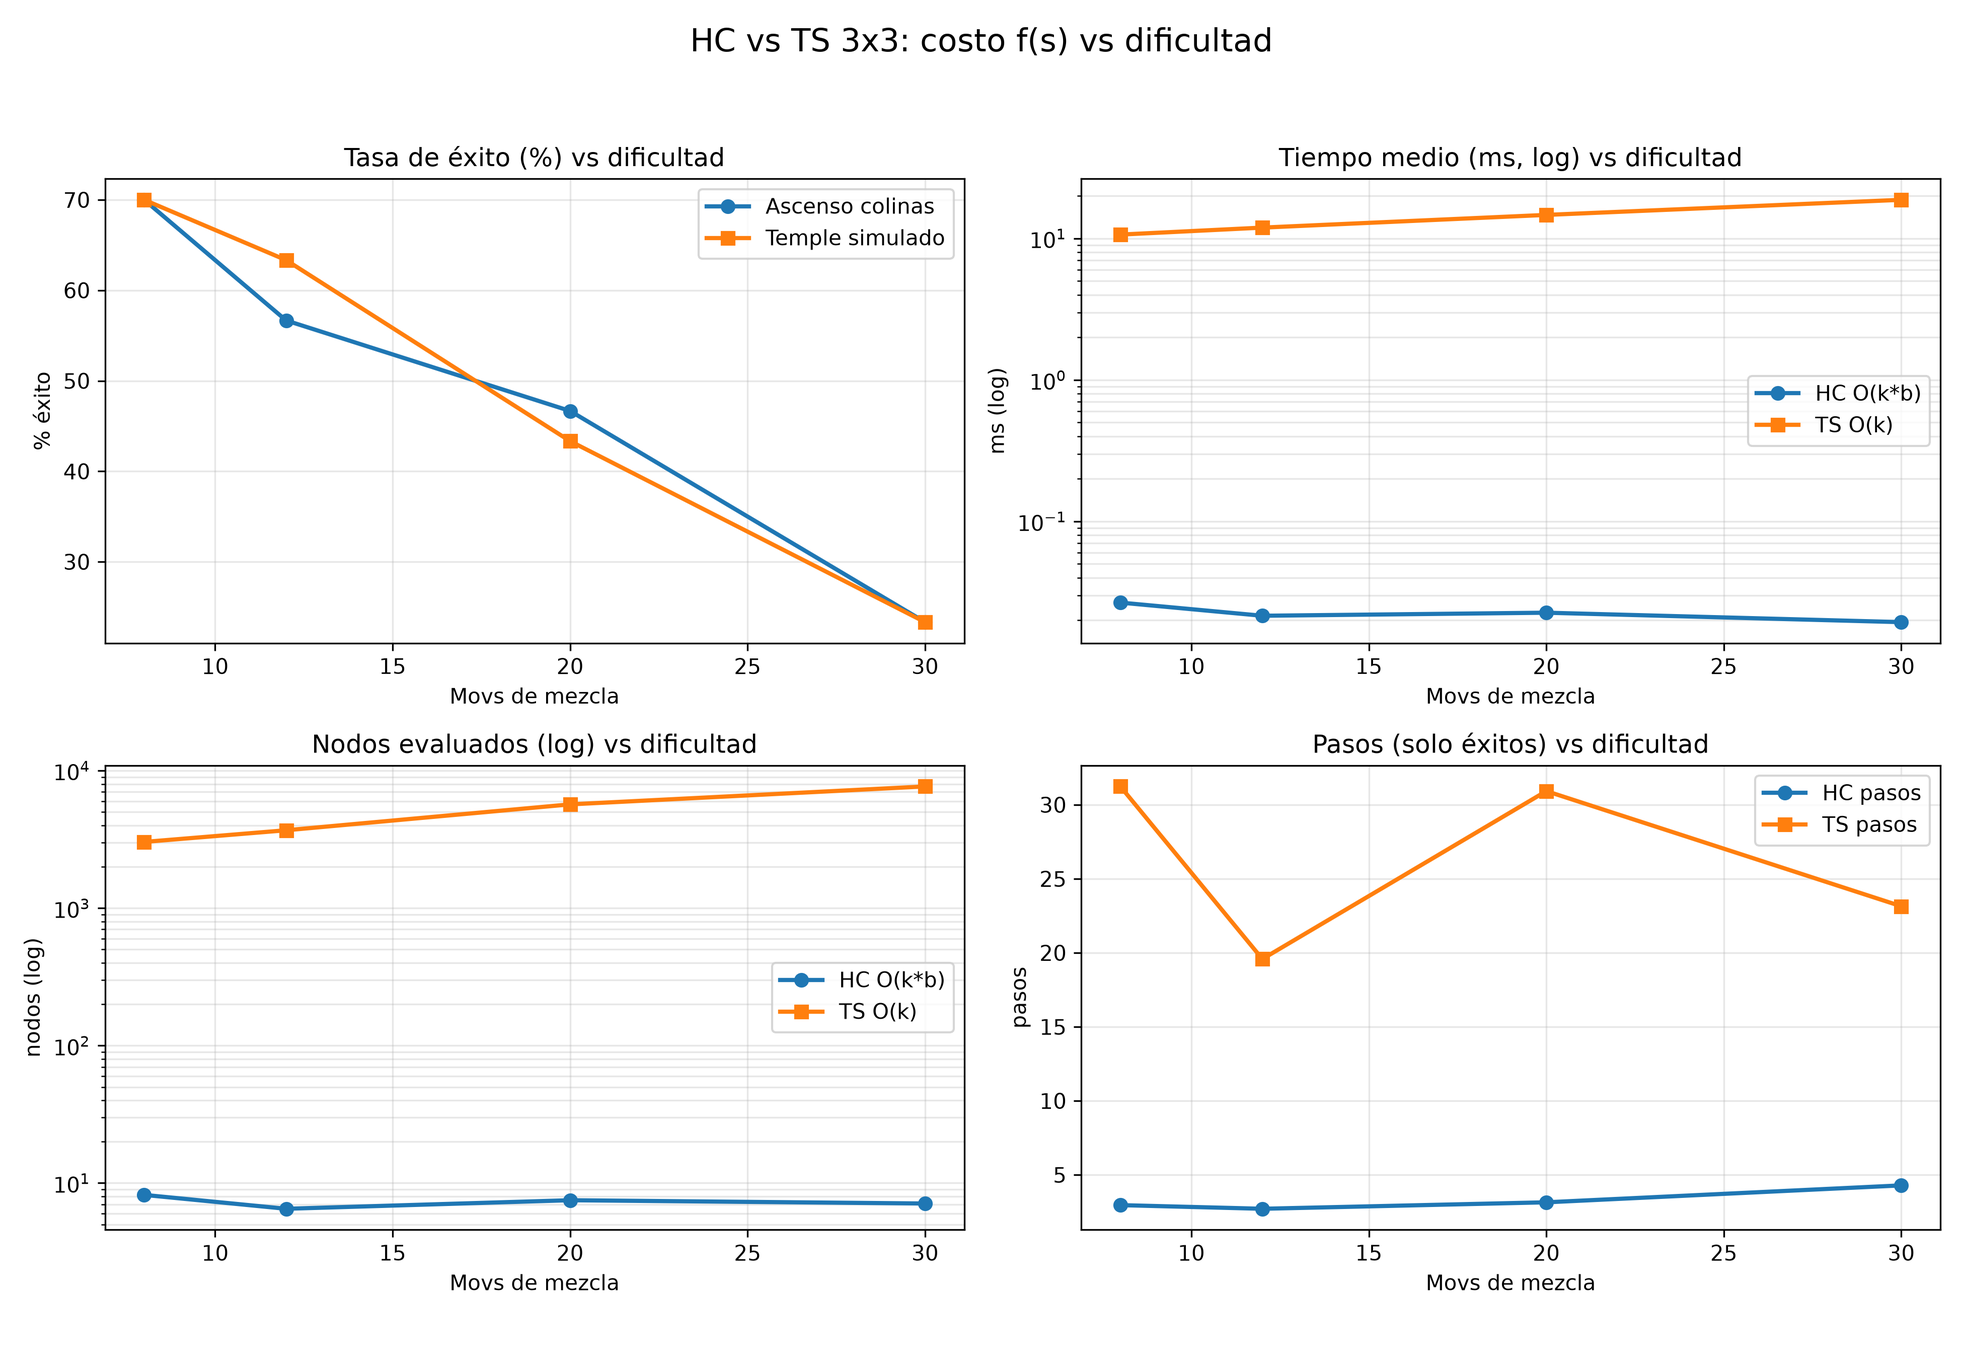
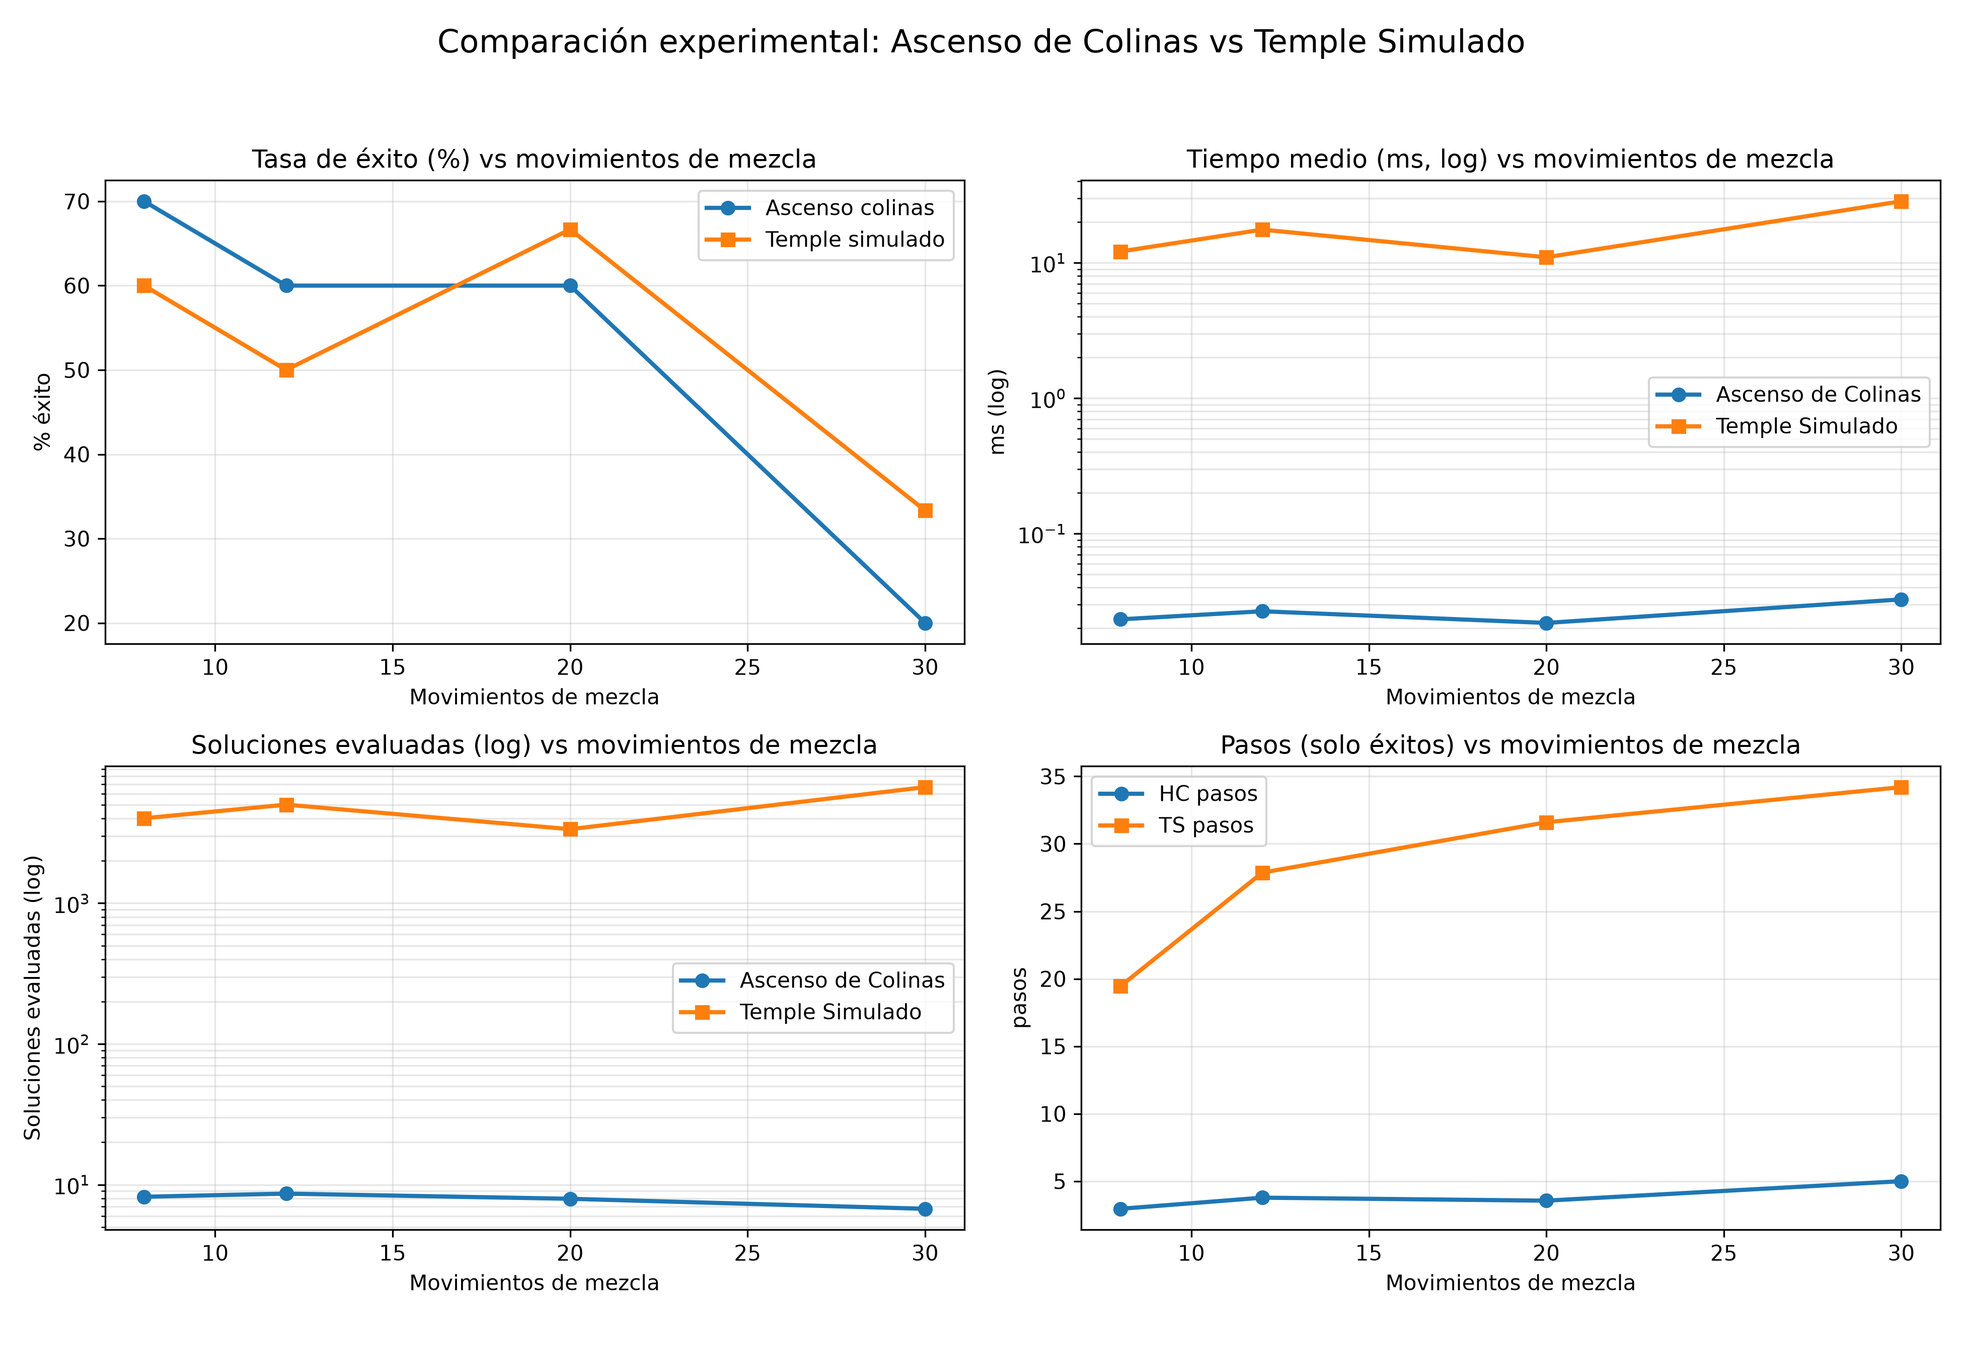
Agrega puzzle colinas temple y README

diff --git a/puzzle_colinas_temple.py b/puzzle_colinas_temple.py
@@ -1,6 +1,7 @@
 import random
 import time
 import math
+from pathlib import Path
 import matplotlib.pyplot as plt
 import numpy as np
 
@@ -56,19 +57,19 @@ def ascenso_colinas(estado_inicial, max_iter=5000):
     Evaluar vecinos, escoger el mejor y detenerse si no hay mejora.
     La meseta es una limitación: no se resuelve con laterales aquí.
     """
-    inicio = time.time()
+    inicio = time.perf_counter()
     actual = estado_inicial
     costo_actual = costo(actual)
     camino = [actual]
     historial_costo = [costo_actual]
-    nodos_evaluados = 0
+    soluciones_evaluadas = 0
     motivo = "max_iter"
 
     if actual == META:
         return {
             "exito": True,
-            "tiempo": time.time() - inicio,
-            "nodos": 0,
+            "tiempo": time.perf_counter() - inicio,
+            "evaluaciones": 0,
             "pasos": 0,
             "camino": camino,
             "historial_costo": historial_costo,
@@ -81,13 +82,16 @@ def ascenso_colinas(estado_inicial, max_iter=5000):
             motivo = "meta_alcanzada"
             break
         vecinos = obtener_vecinos(actual)
-        nodos_evaluados += len(vecinos)
-        mejor = min(vecinos, key=costo)
-        if costo(mejor) >= costo_actual:
+        soluciones_evaluadas += len(vecinos)
+        costo_mejor, mejor = min(
+            ((costo(vecino), vecino) for vecino in vecinos),
+            key=lambda candidato: candidato[0],
+        )
+        if costo_mejor >= costo_actual:
             motivo = "minimo_local_o_meseta"
             break
         actual = mejor
-        costo_actual = costo(actual)
+        costo_actual = costo_mejor
         camino.append(actual)
         historial_costo.append(costo_actual)
 
@@ -96,8 +100,8 @@ def ascenso_colinas(estado_inicial, max_iter=5000):
         motivo = "meta_alcanzada"
     return {
         "exito": exito,
-        "tiempo": time.time() - inicio,
-        "nodos": nodos_evaluados,
+        "tiempo": time.perf_counter() - inicio,
+        "evaluaciones": soluciones_evaluadas,
         "pasos": (len(camino) - 1) if exito else None,
         "camino": camino,
         "historial_costo": historial_costo,
@@ -110,13 +114,13 @@ def temple_simulado(estado_inicial, T_inicial=2.0, alpha=0.99, T_min=0.001,
                      max_iter=10000, semilla=None):
     """Temple simulado con función de costo f(s).
 
-    Delta E = f(s') - f(s). Si mejora se acepta.
+    Delta E = f(s') - f(s). Si mejora o empata se acepta.
     Si empeora se acepta con P = exp(-DeltaE / T).
     Enfría con T = T_inicial * alpha^k.
     """
     if semilla is not None:
         random.seed(semilla)
-    inicio = time.time()
+    inicio = time.perf_counter()
     actual = estado_inicial
     costo_actual = costo(actual)
     mejor = actual
@@ -124,13 +128,13 @@ def temple_simulado(estado_inicial, T_inicial=2.0, alpha=0.99, T_min=0.001,
     trayectoria = [actual]
     historial_costo = [costo_actual]
     historial_T = [T_inicial]
-    nodos_evaluados = 0
+    soluciones_evaluadas = 0
 
     if actual == META:
         return {
             "exito": True,
-            "tiempo": time.time() - inicio,
-            "nodos": 0,
+            "tiempo": time.perf_counter() - inicio,
+            "evaluaciones": 0,
             "pasos": 0,
             "camino": trayectoria,
             "historial_costo": historial_costo,
@@ -144,12 +148,12 @@ def temple_simulado(estado_inicial, T_inicial=2.0, alpha=0.99, T_min=0.001,
         if actual == META:
             break
         vecinos = obtener_vecinos(actual)
-        nodos_evaluados += 1
+        soluciones_evaluadas += 1
         siguiente = random.choice(vecinos)
         costo_siguiente = costo(siguiente)
         delta_E = costo_siguiente - costo_actual
         acepta = False
-        if delta_E < 0:
+        if delta_E <= 0:
             acepta = True
         else:
             prob = math.exp(-delta_E / T) if T > 0 else 0.0
@@ -170,8 +174,8 @@ def temple_simulado(estado_inicial, T_inicial=2.0, alpha=0.99, T_min=0.001,
     exito = (mejor_costo == 0)
     return {
         "exito": exito,
-        "tiempo": time.time() - inicio,
-        "nodos": nodos_evaluados,
+        "tiempo": time.perf_counter() - inicio,
+        "evaluaciones": soluciones_evaluadas,
         "pasos": (len(trayectoria) - 1) if exito else None,
         "camino": trayectoria,
         "historial_costo": historial_costo,
@@ -182,9 +186,9 @@ def temple_simulado(estado_inicial, T_inicial=2.0, alpha=0.99, T_min=0.001,
 
 
 def experimento(niveles=(8, 12, 20, 30), trials=30, semilla=123):
-    """Comparación HC vs TS barriendo dificultad.
+    """Comparación HC vs TS según movimientos de mezcla.
 
-    Complejidad empírica: éxito, tiempo, nodos y pasos vs mezcla.
+    Complejidad empírica: éxito, tiempo, evaluaciones y pasos vs mezcla.
     HC = O(k*b), TS = O(k) con un vecino por iteración.
     """
     print("=" * 70)
@@ -193,48 +197,48 @@ def experimento(niveles=(8, 12, 20, 30), trials=30, semilla=123):
     print("=" * 70)
     random.seed(semilla)
     estudio = {}
-    print(f"{'Nivel':<8}{'HC%':<8}{'HC ms':<10}{'HC nod':<10}{'HC pas':<8}| "
-          f"{'TS%':<8}{'TS ms':<10}{'TS nod':<10}{'TS pas':<8}")
+    print(f"{'Mezcla':<8}{'HC%':<8}{'HC ms':<10}{'HC eval':<10}{'HC pas':<8}| "
+          f"{'TS%':<8}{'TS ms':<10}{'TS eval':<10}{'TS pas':<8}")
     print("-" * 90)
     for sc in niveles:
         pruebas = [generar_estado_aleatorio(sc) for _ in range(trials)]
-        hc_m = {"exito": [], "tiempo": [], "nodos": [], "pasos": []}
-        ts_m = {"exito": [], "tiempo": [], "nodos": [], "pasos": []}
+        hc_m = {"exito": [], "tiempo": [], "evaluaciones": [], "pasos": []}
+        ts_m = {"exito": [], "tiempo": [], "evaluaciones": [], "pasos": []}
         for s in pruebas:
             r = ascenso_colinas(s)
             hc_m["exito"].append(1 if r["exito"] else 0)
             hc_m["tiempo"].append(r["tiempo"])
-            hc_m["nodos"].append(r["nodos"])
+            hc_m["evaluaciones"].append(r["evaluaciones"])
             hc_m["pasos"].append(r["pasos"])
             r2 = temple_simulado(s)
             ts_m["exito"].append(1 if r2["exito"] else 0)
             ts_m["tiempo"].append(r2["tiempo"])
-            ts_m["nodos"].append(r2["nodos"])
+            ts_m["evaluaciones"].append(r2["evaluaciones"])
             ts_m["pasos"].append(r2["pasos"])
         estudio[sc] = {"hc": hc_m, "ts": ts_m}
         hc_p = [x for x in hc_m["pasos"] if x is not None]
         ts_p = [x for x in ts_m["pasos"] if x is not None]
         print(f"{sc:<8}{np.mean(hc_m['exito'])*100:<8.1f}"
-              f"{np.mean(hc_m['tiempo'])*1000:<10.3f}{np.mean(hc_m['nodos']):<10.1f}"
+              f"{np.mean(hc_m['tiempo'])*1000:<10.3f}{np.mean(hc_m['evaluaciones']):<10.1f}"
               f"{(np.mean(hc_p) if hc_p else 0):<8.1f}| "
               f"{np.mean(ts_m['exito'])*100:<8.1f}"
-              f"{np.mean(ts_m['tiempo'])*1000:<10.3f}{np.mean(ts_m['nodos']):<10.1f}"
+              f"{np.mean(ts_m['tiempo'])*1000:<10.3f}{np.mean(ts_m['evaluaciones']):<10.1f}"
               f"{(np.mean(ts_p) if ts_p else 0):<8.1f}")
     print("-" * 90)
-    print("HC = O(k*b). TS = O(k) con un vecino por iteración.")
+    print("Evaluaciones de costo: HC = O(k*b); TS = O(k).")
     print("b~2.67 (2 esquina, 3 borde, 4 centro). Espacio 9!/2=181440.")
     return estudio
 
 
 def graficar_comparacion(estudio):
-    """4 gráficas costo/complejidad vs dificultad. Guarda PNG."""
+    """4 gráficas costo/complejidad vs movimientos de mezcla. Guarda PNG."""
     niveles = sorted(estudio.keys())
     hc_ok = [np.mean(estudio[n]["hc"]["exito"]) * 100 for n in niveles]
     ts_ok = [np.mean(estudio[n]["ts"]["exito"]) * 100 for n in niveles]
     hc_t = [np.mean(estudio[n]["hc"]["tiempo"]) * 1000 for n in niveles]
     ts_t = [np.mean(estudio[n]["ts"]["tiempo"]) * 1000 for n in niveles]
-    hc_n = [np.mean(estudio[n]["hc"]["nodos"]) for n in niveles]
-    ts_n = [np.mean(estudio[n]["ts"]["nodos"]) for n in niveles]
+    hc_n = [np.mean(estudio[n]["hc"]["evaluaciones"]) for n in niveles]
+    ts_n = [np.mean(estudio[n]["ts"]["evaluaciones"]) for n in niveles]
     hc_p = []
     ts_p = []
     for n in niveles:
@@ -244,45 +248,47 @@ def graficar_comparacion(estudio):
         ts_p.append(np.mean(b) if b else 0)
 
     fig, axs = plt.subplots(2, 2, figsize=(13, 9))
-    fig.suptitle('HC vs TS 3x3: costo f(s) vs dificultad', fontsize=15)
+    fig.suptitle('Comparación experimental: Ascenso de Colinas vs Temple Simulado', fontsize=15)
 
     axs[0, 0].plot(niveles, hc_ok, 'o-', label='Ascenso colinas', linewidth=2)
     axs[0, 0].plot(niveles, ts_ok, 's-', label='Temple simulado', linewidth=2)
-    axs[0, 0].set_title('Tasa de éxito (%) vs dificultad')
-    axs[0, 0].set_xlabel('Movs de mezcla')
+    axs[0, 0].set_title('Tasa de éxito (%) vs movimientos de mezcla')
+    axs[0, 0].set_xlabel('Movimientos de mezcla')
     axs[0, 0].set_ylabel('% éxito')
     axs[0, 0].legend()
     axs[0, 0].grid(True, alpha=0.3)
 
-    axs[0, 1].plot(niveles, hc_t, 'o-', label='HC O(k*b)', linewidth=2)
-    axs[0, 1].plot(niveles, ts_t, 's-', label='TS O(k)', linewidth=2)
-    axs[0, 1].set_title('Tiempo medio (ms, log) vs dificultad')
-    axs[0, 1].set_xlabel('Movs de mezcla')
+    axs[0, 1].plot(niveles, hc_t, 'o-', label='Ascenso de Colinas', linewidth=2)
+    axs[0, 1].plot(niveles, ts_t, 's-', label='Temple Simulado', linewidth=2)
+    axs[0, 1].set_title('Tiempo medio (ms, log) vs movimientos de mezcla')
+    axs[0, 1].set_xlabel('Movimientos de mezcla')
     axs[0, 1].set_ylabel('ms (log)')
     axs[0, 1].set_yscale('log')
     axs[0, 1].legend()
     axs[0, 1].grid(True, which='both', alpha=0.3)
 
-    axs[1, 0].plot(niveles, hc_n, 'o-', label='HC O(k*b)', linewidth=2)
-    axs[1, 0].plot(niveles, ts_n, 's-', label='TS O(k)', linewidth=2)
-    axs[1, 0].set_title('Nodos evaluados (log) vs dificultad')
-    axs[1, 0].set_xlabel('Movs de mezcla')
-    axs[1, 0].set_ylabel('nodos (log)')
+    axs[1, 0].plot(niveles, hc_n, 'o-', label='Ascenso de Colinas', linewidth=2)
+    axs[1, 0].plot(niveles, ts_n, 's-', label='Temple Simulado', linewidth=2)
+    axs[1, 0].set_title('Soluciones evaluadas (log) vs movimientos de mezcla')
+    axs[1, 0].set_xlabel('Movimientos de mezcla')
+    axs[1, 0].set_ylabel('Soluciones evaluadas (log)')
     axs[1, 0].set_yscale('log')
     axs[1, 0].legend()
     axs[1, 0].grid(True, which='both', alpha=0.3)
 
     axs[1, 1].plot(niveles, hc_p, 'o-', label='HC pasos', linewidth=2)
     axs[1, 1].plot(niveles, ts_p, 's-', label='TS pasos', linewidth=2)
-    axs[1, 1].set_title('Pasos (solo éxitos) vs dificultad')
-    axs[1, 1].set_xlabel('Movs de mezcla')
+    axs[1, 1].set_title('Pasos (solo éxitos) vs movimientos de mezcla')
+    axs[1, 1].set_xlabel('Movimientos de mezcla')
     axs[1, 1].set_ylabel('pasos')
     axs[1, 1].legend()
     axs[1, 1].grid(True, alpha=0.3)
 
     plt.tight_layout(rect=[0, 0.03, 1, 0.95])
-    plt.savefig('graficas_HC_TS_dificultad.png', dpi=300)
-    print("Gráfica guardada como 'graficas_HC_TS_dificultad.png'")
+    ruta_grafica = Path(__file__).resolve().parent / 'img' / 'graficas_HC_TS_dificultad.png'
+    ruta_grafica.parent.mkdir(exist_ok=True)
+    plt.savefig(ruta_grafica, dpi=300)
+    print(f"Gráfica guardada como '{ruta_grafica}'")
     plt.show()
 
 
@@ -290,7 +296,7 @@ def main():
     """Punto de entrada: experimento + gráfica."""
     estudio = experimento()
     graficar_comparacion(estudio)
-    print("Listo: ver graficas_HC_TS_dificultad.png")
+    print("Listo: ver img/graficas_HC_TS_dificultad.png")
 
 
 if __name__ == "__main__":

diff --git a/README.md b/README.md
@@ -1,6 +1,6 @@
-# Ascenso de Colinas y Temple Simulado en el 8-Puzzle (3x3)
+# Comparación experimental: Ascenso de Colinas vs Temple Simulado
 
-Estudio de búsqueda local según diapositivas: **estado, vecindad y calidad/aptitud** de la solución con función objetivo `f(s)`. Comparación **Hill Climbing (HC)** frente a **Temple Simulado (TS)**.
+Comparación de **Ascenso de Colinas (HC)** y **Temple Simulado (TS)** para el puzle 3 × 3. Se usa búsqueda local con estado, vecindad y función de costo `f(s)`.
 
 Archivo principal: `puzzle_colinas_temple.py` · Requiere `Python 3.10+`, `numpy`, `matplotlib`.
 
@@ -27,9 +27,12 @@ def costo(estado):
 **`ascenso_colinas(estado_inicial, max_iter=5000)` base:**
 
 ```python
-mejor = min(vecinos, key=costo)
-if costo(mejor) >= costo(actual):
-    return actual
+costo_mejor, mejor = min(
+    ((costo(vecino), vecino) for vecino in vecinos),
+    key=lambda candidato: candidato[0],
+)
+if costo_mejor >= costo_actual:
+    break
 ```
 
 Evalúa vecinos, escoge el mejor y se detiene si no hay mejora. La meseta se deja como limitación, sin `sideways_limit`: si todos empatan o empeoran, retorna `minimo_local_o_meseta`. Sin reinicios en la comparación principal.
@@ -38,7 +41,7 @@ Evalúa vecinos, escoge el mejor y se detiene si no hay mejora. La meseta se dej
 
 ```
 Delta E = f(s') - f(s)
-si Delta E < 0: aceptar
+si Delta E <= 0: aceptar
 si no: P = exp(-DeltaE / T), T = T_inicial * alpha^k
 ```
 
@@ -46,7 +49,7 @@ Un vecino por iteración. Nombres de costo: `costo_actual`, `costo_siguiente`, `
 
 ## 3. Experimento
 
-`experimento(niveles=(8,12,20,30), trials=30, semilla=123)` mide éxito, tiempo, nodos y pasos vs mezcla. `graficar_comparacion(estudio)` genera `graficas_HC_TS_dificultad.png`. `main()` corre ambos.
+`experimento(niveles=(8,12,20,30), trials=30, semilla=123)` mide éxito, tiempo, soluciones evaluadas y pasos según los movimientos de mezcla. Los resultados de cada algoritmo usan la clave `"evaluaciones"`. `graficar_comparacion(estudio)` genera `img/graficas_HC_TS_dificultad.png`. `main()` corre ambos.
 
 ```bash
 pip install matplotlib numpy
@@ -55,34 +58,34 @@ python puzzle_colinas_temple.py
 
 ## 4. Resultados con función costo (30 partidas por nivel)
 
-| Mezcla | HC éxito | HC tiempo | HC nodos | HC pasos* | TS éxito | TS tiempo | TS nodos | TS pasos* |
+| Movimientos de mezcla | HC éxito | HC tiempo | HC evaluaciones | HC pasos* | TS éxito | TS tiempo | TS evaluaciones | TS pasos* |
 |---|---|---|---|---|---|---|---|---|
-| 8 | 70.0% | 0.027 ms | 8.2 | 3.0 | 70.0% | 10.6 ms | 3029 | 31.2 |
-| 12 | 56.7% | 0.022 ms | 6.5 | 2.7 | 63.3% | 11.9 ms | 3683 | 19.6 |
-| 20 | 46.7% | 0.023 ms | 7.5 | 3.1 | 43.3% | 14.6 ms | 5682 | 30.9 |
-| 30 | 23.3% | 0.019 ms | 7.1 | 4.3 | 23.3% | 18.7 ms | 7673 | 23.1 |
+| 8 | 70.0% | 0.023 ms | 8.2 | 3.0 | 60.0% | 12.1 ms | 4016.4 | 19.4 |
+| 12 | 60.0% | 0.027 ms | 8.6 | 3.8 | 50.0% | 17.6 ms | 5018.4 | 27.9 |
+| 20 | 60.0% | 0.022 ms | 7.9 | 3.6 | 66.7% | 11.0 ms | 3359.6 | 31.6 |
+| 30 | 20.0% | 0.033 ms | 6.7 | 5.0 | 33.3% | 28.5 ms | 6680.8 | 34.2 |
 
-\* Pasos solo en éxitos.
+\* Pasos solo en éxitos. Los tiempos son una ejecución de ejemplo y dependen del equipo; las demás cifras se reproducen con la semilla indicada.
 
 ![Comparación](img/graficas_HC_TS_dificultad.png)
 
-Lectura honesta: con `costo` grueso (0..8, muchos empates) ambos caen fuerte vs Manhattan. HC y TS empatan en 8 y 30, TS supera leve en 12 (63.3% vs 56.7%), HC supera leve en 20. TS paga 500x-900x más tiempo y 400x-1000x más nodos para igualar en éxito, y con caminos 5x-8x más largos. La afirmación vieja de que TS suele tener mayor éxito no se sostiene aquí: empatan, y HC es mucho más barato.
+Con esta función de costo, que produce muchos empates, HC obtiene más éxitos en 8 y 12 movimientos de mezcla; TS obtiene más en 20 y 30. TS evalúa miles de soluciones donde HC evalúa menos de diez en promedio. Estos niveles indican cuántos movimientos aleatorios se aplicaron desde la meta; un movimiento puede deshacer el anterior, así que no representan la distancia mínima a la solución.
 
 ## 5. Complejidad
 
-Conservando notación de clase:
+En número de evaluaciones de la función de costo:
 
 ```
 HC = O(k*b)
 TS = O(k)
 ```
 
-`k` iteraciones, `b` vecinos por iteración en HC. TS evalúa un vecino por iteración, por eso `O(k)`. Empírico: HC ~0.02 ms y 6-8 nodos; TS ~10-18 ms y 3000-7600 nodos. El costo por evaluación es `O(1)`.
+`k` es el número de iteraciones de cada algoritmo y `b` el número de vecinos de un estado. HC evalúa hasta `b` vecinos por iteración; TS evalúa uno. En el puzle 3 × 3, `b` está entre 2 y 4 y evaluar `costo()` cuesta `O(1)` respecto a `k`, por lo que ambos son `O(k)` si el tamaño del tablero se mantiene fijo. La implementación de TS construye la lista completa de vecinos antes de elegir uno; su costo de generación es `O(k*b)`. Los valores de `k` pueden ser muy distintos entre HC y TS, como muestran las evaluaciones medidas. Ambos conservan un historial de hasta `k` estados, por lo que su espacio registrado es `O(k)`.
 
 ## 6. Conclusiones
 
-1. Con `f(s)` simple, HC y TS rinden parecido en éxito, pero HC cuesta dos órdenes menos. Para este caso, HC es preferente por eficiencia.
-2. La meseta es la limitación real de HC base: sin laterales, `costo(mejor) >= costo(actual)` lo detiene aunque esté en `f=3-4`.
-3. TS escapa con `P=exp(-DeltaE/T)`, por eso iguala o supera leve en 12 movs, pero alarga el camino.
-4. A más mezcla, ambos colapsan (23.3% en 30 movs): el paisaje de conteo es plano y engañoso.
+1. Con `f(s)` simple, ninguno domina la tasa de éxito en todos los niveles. HC requiere muchas menos evaluaciones y tiempo en esta ejecución.
+2. La meseta es una limitación de HC base: sin movimientos laterales, se detiene cuando `costo_mejor >= costo_actual` aunque no haya alcanzado la meta.
+3. TS acepta siempre las mejoras y empates; puede aceptar empeoramientos con `P=exp(-DeltaE/T)`. Esto le permite salir de algunas mesetas, aunque sus trayectorias aceptadas son más largas.
+4. En esta muestra, ambos pierden éxito al pasar de 20 a 30 movimientos de mezcla. Conviene comparar más semillas antes de sacar una conclusión general.
 5. Siguiente paso según diapositivas: variante con reinicios separada, no dentro del base, y `T0` adaptativo a `f` inicial.
